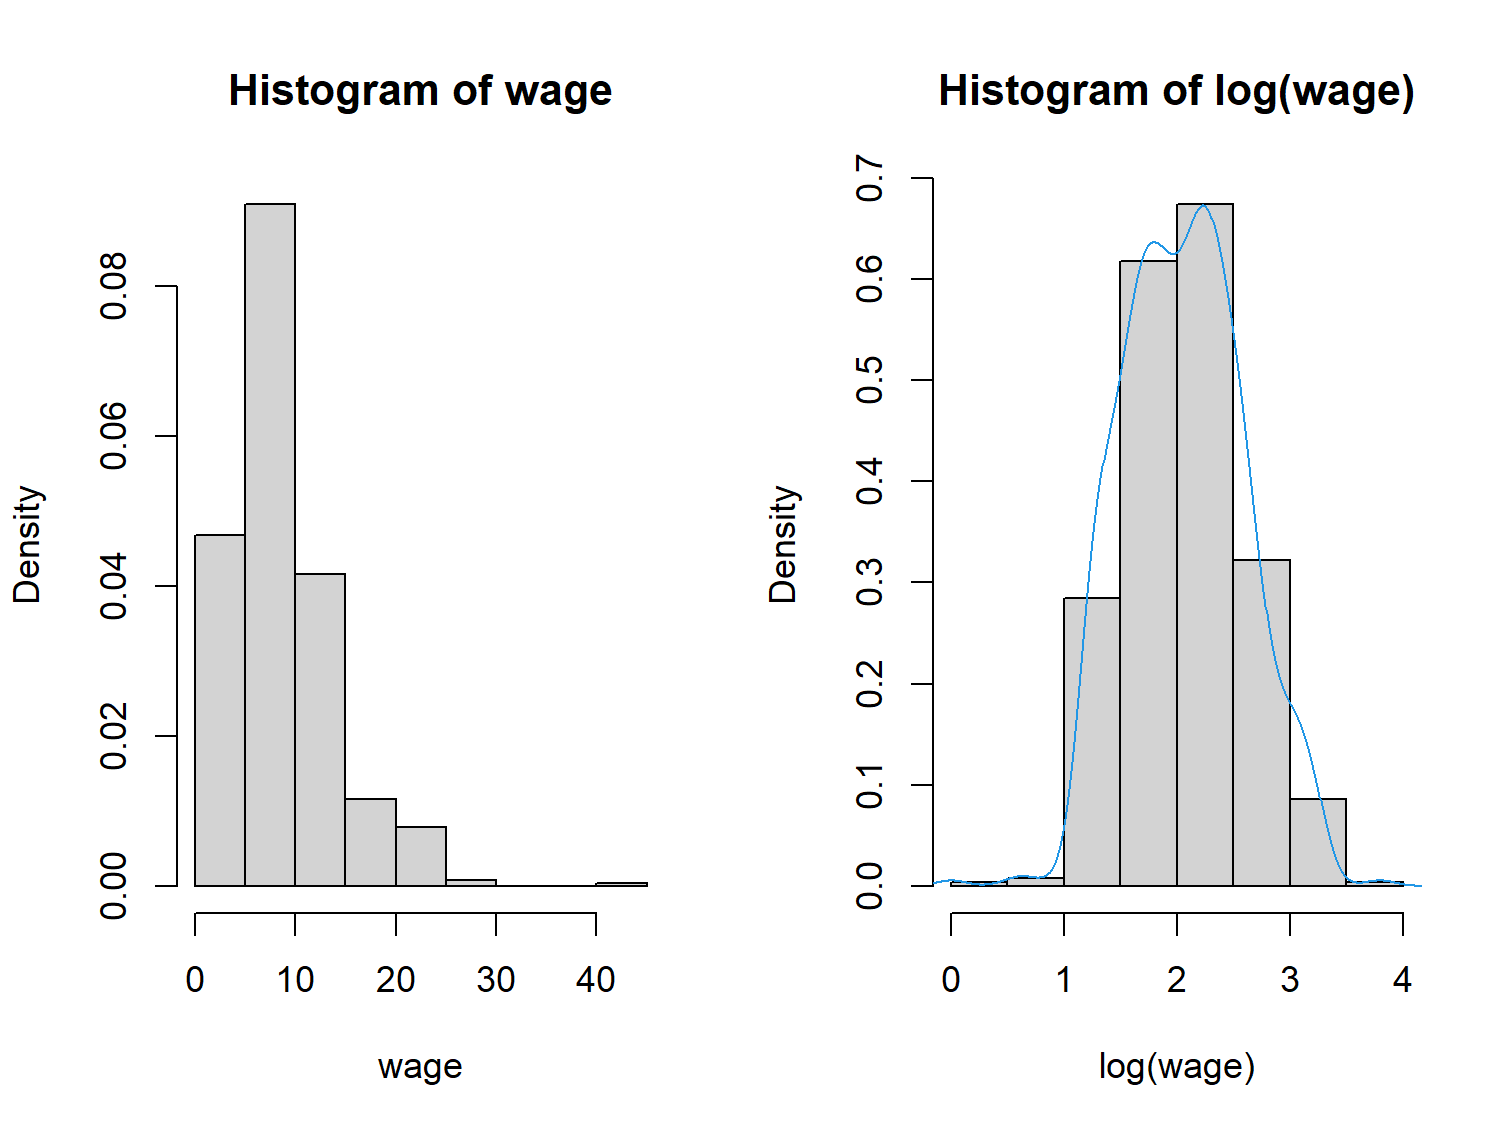
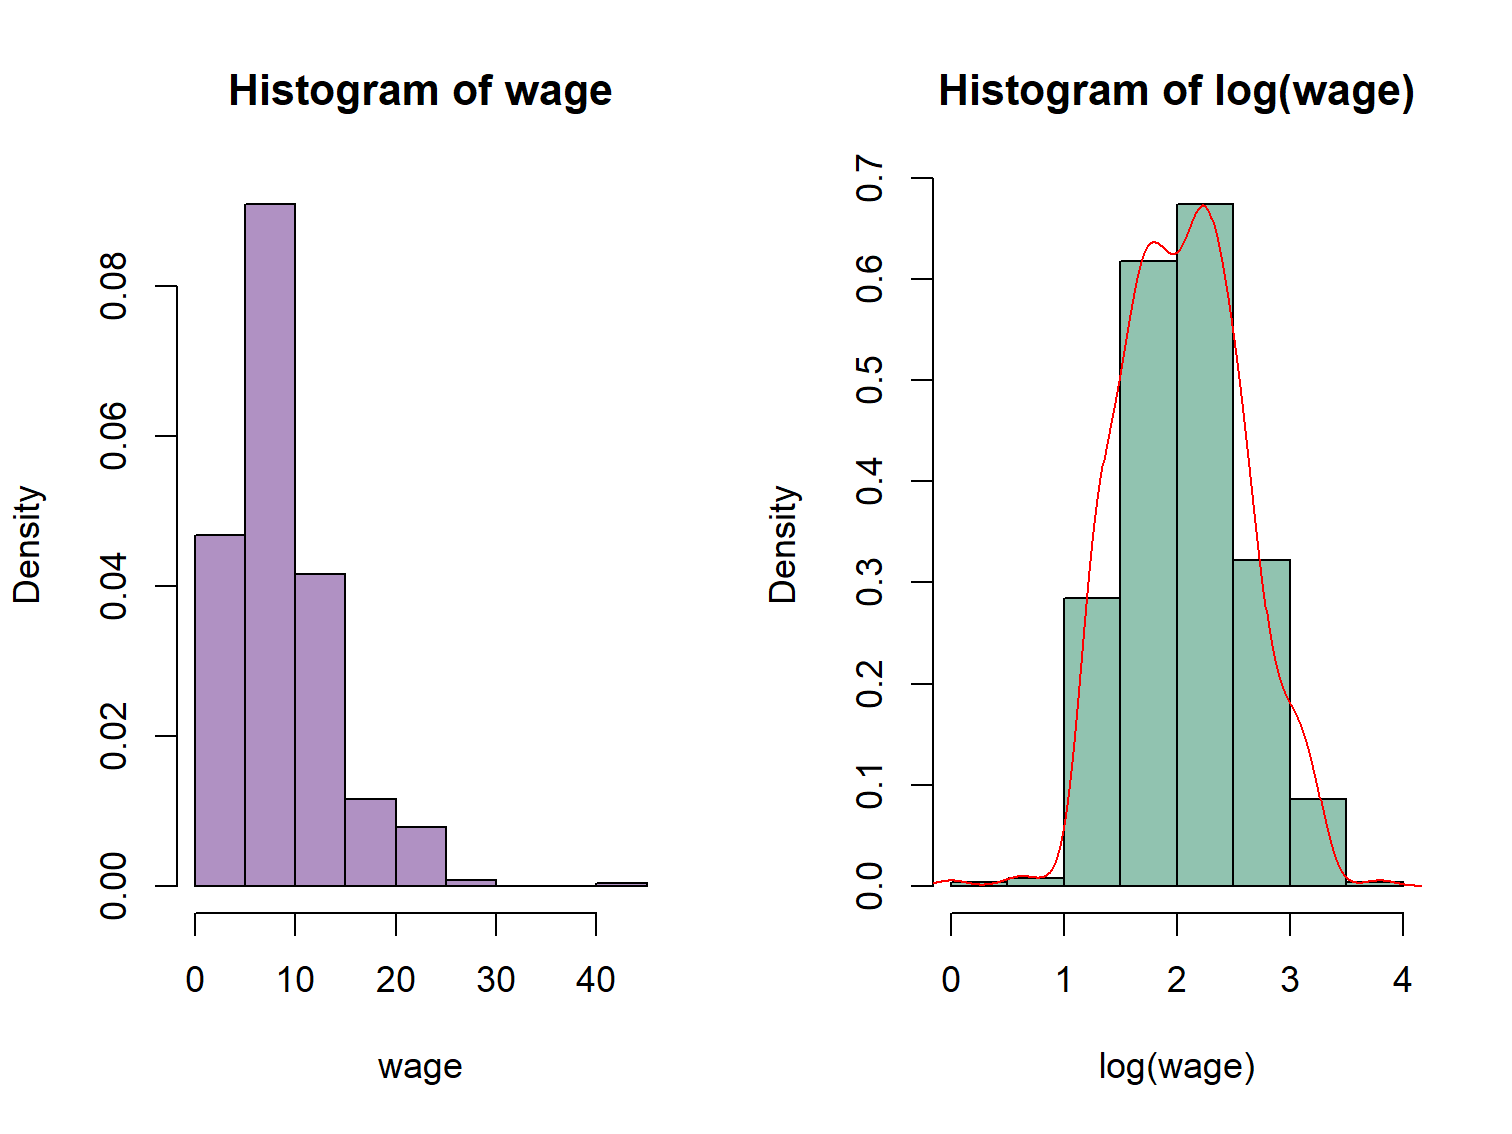
update sesi1 dan 2
commit often

Changed region(s): [[0.6528, 0.1543, 0.9325, 0.8025], [0.1243, 0.1543, 0.3108, 0.8025]]

diff --git a/sesi1.html b/sesi1.html
@@ -10,7 +10,7 @@
     <link href="libs/animate.css-3.7.2/animate.xaringan.css" rel="stylesheet" />
     <link href="libs/tachyons-4.12.0/tachyons.min.css" rel="stylesheet" />
     <link href="libs/xaringanExtra-extra-styles-0.2.6/xaringanExtra-extra-styles.css" rel="stylesheet" />
-    <script type="application/json" id="xaringanExtra-editable-docid">{"id":"db484f40db86442c966119200c9a528d","expires":1}</script>
+    <script type="application/json" id="xaringanExtra-editable-docid">{"id":"x1e8d8c45b7840f8a9a636bddb4d1613","expires":1}</script>
     <script src="libs/himalaya-1.1.0/himalaya.js"></script>
     <script src="libs/js-cookie-3.0.0/js.cookie.js"></script>
     <link href="libs/editable-0.2.6/editable.css" rel="stylesheet" />
@@ -123,26 +123,26 @@ variously attributed to Benjamin Disraeli, Mark Twain etc.
 
 
 ```r
-set.seed(12345)
-x &lt;- rnorm(50)
-mean(x)
-# [1] 0.1795663
-median(x)
-# [1] 0.4309081
-var(x)
-# [1] 1.202501
-sd(x)
-# [1] 1.096586
-quantile(x)
-#         0%        25%        50%        75%       100% 
-# -2.3803581 -0.4746098  0.4309081  0.8156432  2.1968335
+set.seed(12345) # jika ingin mendapatkan hasil sama gunakan seed yang sama
+x &lt;- rnorm(1000) # membuat angka acak sebanyak 1000 tersebar normal
+mean(x) # menghitung rata-rata
+# [1] 0.04619816
+median(x) # menghitung nilai median
+# [1] 0.04621674
+var(x) # menghitung nilai varians
+# [1] 0.9974968
+sd(x) # menghitung nilai simpangan baku/standard deviasi
+# [1] 0.9987476
+quantile(x) # menghitung quantile
+#          0%         25%         50%         75%        100% 
+# -2.77832551 -0.59597347  0.04621674  0.68856728  3.33073331
 ```
 ---
 
 ```r
-par(mfrow=c(1,2))
-hist(x)
-curve(dnorm(x), from=-4, to=4)
+par(mfrow=c(1,2)) # membagi layar menjadi 1 X 2 bidang
+hist(x, col="#00ff80") # membuat histogram x dengan warna
+curve(dnorm(x), from=-4, to=4) # membuat kurva normal x
 ```
 
 &lt;img src="sesi1_files/figure-html/unnamed-chunk-4-1.png" width="504" style="display: block; margin: auto;" /&gt;
@@ -173,10 +173,10 @@ Deskripsi data:
 
 
 ```r
-library(AER)
-data(CPS1985)
-attach(CPS1985)
-str(CPS1985)
+library(AER) # memanggil library AER
+data(CPS1985) # memanggil data CPS1985
+attach(CPS1985) # melampirkan data CPS1985
+str(CPS1985) # menampilkan struktur data CPS1985
 # 'data.frame':	534 obs. of  11 variables:
 #  $ wage      : num  5.1 4.95 6.67 4 7.5 ...
 #  $ education : num  8 9 12 12 12 13 10 12 16 12 ...
@@ -189,13 +189,13 @@ str(CPS1985)
 #  $ sector    : Factor w/ 3 levels "manufacturing",..: 1 1 1 3 3 3 3 3 1 3 ...
 #  $ union     : Factor w/ 2 levels "no","yes": 1 1 1 1 1 2 1 1 1 1 ...
 #  $ married   : Factor w/ 2 levels "no","yes": 2 2 1 1 2 1 1 1 2 1 ...
-mean(wage)
+mean(wage) # menghitung nilai rata-rata upah pada data CPS1985
 # [1] 9.024064
-var(wage)
+var(wage) # menghitung nilai ragam upah pada data CPS1985
 # [1] 26.41032
-sd(wage)
+sd(wage) # menghitung simpangan baku upah pada data CPS1985
 # [1] 5.139097
-summary(wage)
+summary(wage) # menampilkan kesimpulan data upah
 #    Min. 1st Qu.  Median    Mean 3rd Qu.    Max. 
 #   1.000   5.250   7.780   9.024  11.250  44.500
 ```
@@ -203,9 +203,9 @@ summary(wage)
 
 ```r
 par(mfrow=c(1,2))
-hist(wage, freq = FALSE)
-hist(log(wage), freq = FALSE)
-lines(density(log(wage)), col = 4)
+hist(wage, freq = FALSE, col="#b091c3")
+hist(log(wage), freq = FALSE, col="#91c3b0")
+lines(density(log(wage)), col = "#ff0000")
 ```
 
 &lt;img src="sesi1_files/figure-html/unnamed-chunk-6-1.png" width="504" style="display: block; margin: auto;" /&gt;
@@ -221,8 +221,8 @@ prop.table(pekerjaan)
 #     worker  technical   services     office      sales management 
 # 0.29213483 0.19662921 0.15543071 0.18164794 0.07116105 0.10299625
 par(mfrow=c(1,2))
-barplot(pekerjaan)
-pie(pekerjaan)
+barplot(pekerjaan) # membuat barplot data pekerjaan
+pie(pekerjaan) # membuat pie chart data pekerjaan
 ```
 
 &lt;img src="sesi1_files/figure-html/unnamed-chunk-7-1.png" width="504" style="display: block; margin: auto;" /&gt;

diff --git a/sesi2.html b/sesi2.html
@@ -10,7 +10,7 @@
     <link href="libs/animate.css-3.7.2/animate.xaringan.css" rel="stylesheet" />
     <link href="libs/tachyons-4.12.0/tachyons.min.css" rel="stylesheet" />
     <link href="libs/xaringanExtra-extra-styles-0.2.6/xaringanExtra-extra-styles.css" rel="stylesheet" />
-    <script type="application/json" id="xaringanExtra-editable-docid">{"id":"xe83f31557ec42e69a2d9cfbff50ee73","expires":1}</script>
+    <script type="application/json" id="xaringanExtra-editable-docid">{"id":"ba0d28ff98404f68a1d6a01bc61d612c","expires":1}</script>
     <script src="libs/himalaya-1.1.0/himalaya.js"></script>
     <script src="libs/js-cookie-3.0.0/js.cookie.js"></script>
     <link href="libs/editable-0.2.6/editable.css" rel="stylesheet" />
@@ -334,7 +334,7 @@ plot(iklan$iklan, iklan$penjualan,
 xlab="Pengeluaran iklan dalam juta rupiah",
 ylab="Volume penjualan dalam juta unit",
 type = "p")
-abline(model.iklan)
+abline(model.iklan, col="blue")
 ```
 ]
 
